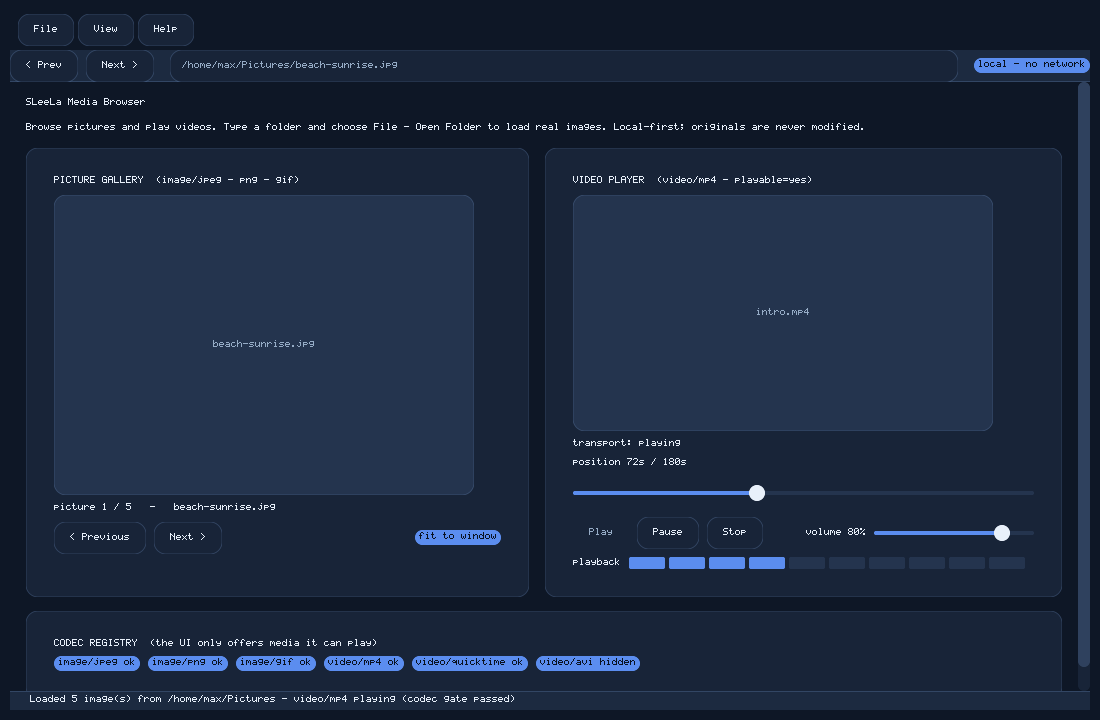
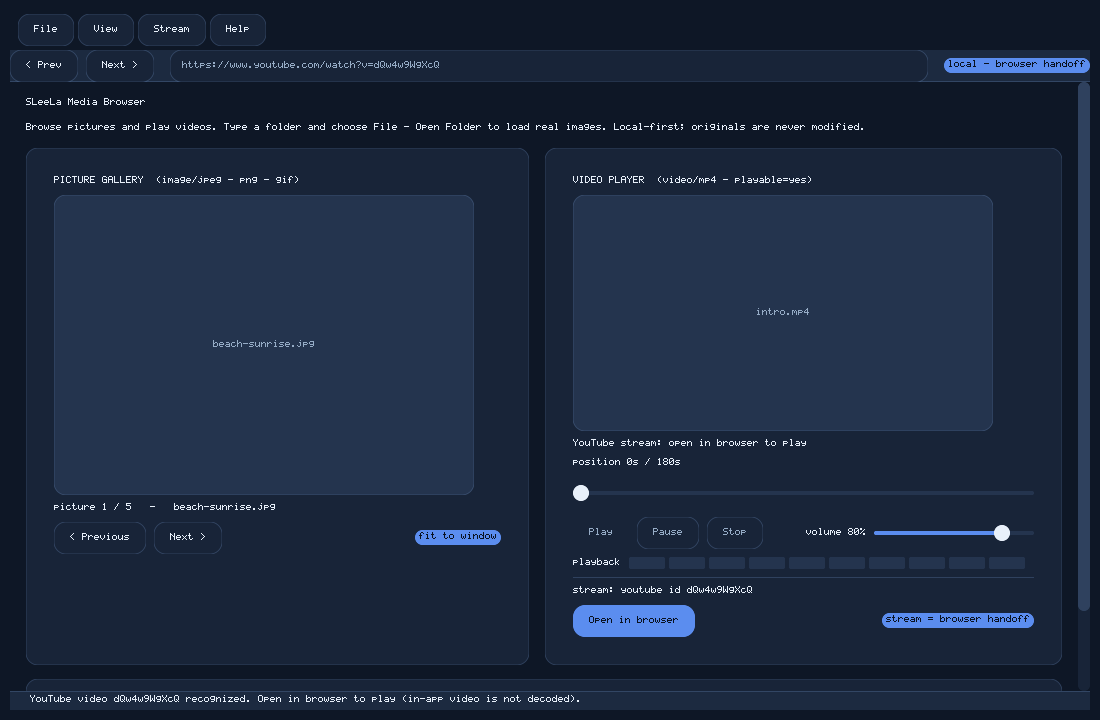
MediaBrowser: add YouTube streaming via browser handoff
The location bar doubles as a stream URL field. Stream - Load URL recognizes a
YouTube link, extracts the 11-char video id (watch?v= / youtu.be/ / /embed/ /
/shorts/ shapes) with a fixed shell command through osRun (scalar-field
technique, no network touched), and switches the player card to stream mode.
Open in browser hands the canonical watch URL to the system browser via a
platform-aware opener (xdg-open / open / cmd start).

Honest by design: SleelaUI has no video surface or network codec, so in-app
transport is gated OFF for a stream (not faked in the canvas) and playback is
delegated to the real browser. The program fetches no media bytes; the one
outbound action is the explicit user-initiated browser handoff.

- New Stream menu (Load URL / Open in browser / Clear) and an in-card stream
  row with an Open-in-browser button and recognized-id caption.
- youtubeId()/looksYouTube()/openExternally()/loadStream()/openStream()/
  clearStream(); syncTransport() now gates local transport off in stream mode.
- URL parsing verified on the VM across all common YouTube URL shapes (and
  correctly rejects non-YouTube input).
- Refresh screenshot to the stream state; honest 'local - browser handoff'
  badge; bump metaVersion to 1.3.0; update README.

Verified: sleela check passes for both runnable files (syntax 2.9).

diff --git a/gui-interface/README.md b/gui-interface/README.md
@@ -34,9 +34,9 @@ not a mockup.*
 - **Menu bar**: File (Open Picture / Open Folder / Media Information / Quit),
   View (Picture Gallery / Video Player), and Help (Media Guide / About),
   implemented as a horizontal button strip with collapsible dropdown panels.
-- **Navigation header**: Prev / Next, a location field that doubles as the
-  folder-path input and tracks the current file, and a `local - no network`
-  badge.
+- **Navigation header**: Prev / Next, a location field that triples as the
+  folder-path input, the current-file display, and the YouTube URL field, plus
+  a `local - browser handoff` badge.
 - **Real on-disk folder browsing**: type a folder path in the location bar and
   choose **File - Open Folder**. The gallery enumerates the real image files in
   that directory (jpg/jpeg/png/gif/bmp/webp/tiff/tif, case-insensitive) and
@@ -50,6 +50,17 @@ not a mockup.*
 - **Video player**: a video canvas with full, **live** transport — Play /
   Pause / Stop, a seek slider that drives the position readout and the playback
   level bar, and a volume slider with a live `volume NN%` readout.
+- **YouTube streaming (browser handoff)**: paste a YouTube link in the location
+  bar and choose **Stream → Load URL**. The browser extracts the 11-character
+  video id (recognizing `watch?v=`, `youtu.be/`, `/embed/`, and `/shorts/`
+  shapes), shows the recognized video in the player card, and offers **Open in
+  browser** — a platform-aware launch (`xdg-open` / `open` / `cmd start`) that
+  plays the video in the user's real browser. It does **not** decode or embed
+  YouTube video in-app: SleelaUI has no video surface or network codec, so the
+  in-app transport is honestly gated off for a stream and playback is delegated
+  to the system browser rather than faked in the canvas. The URL id is parsed by
+  a small fixed shell command via `osRun` (the same scalar-field technique the
+  folder scanner uses); no media bytes are fetched by the program.
 - **State-aware controls**: the transport buttons enable and disable to match
   the player state (Play is off while playing; Pause/Stop are off while
   stopped), so the controls never misrepresent what will happen.
@@ -61,9 +72,13 @@ not a mockup.*
 Transport presentation is centralized in one `syncTransport()` routine so the
 caption, enabled controls, level bar, and status line can never drift apart.
 
-The browser owns no filesystem-mutating capability. Consistent with the
-project's security posture there is no network, telemetry, key upload, database
-logging, or source deletion; originals are never modified.
+The browser owns no filesystem-mutating capability and fetches no media bytes
+itself. Consistent with the project's security posture there is no telemetry,
+key upload, database logging, or source deletion; originals are never modified.
+The one outbound action is the explicit, user-initiated **Open in browser**
+handoff, which launches the system browser on a YouTube URL via the OS opener
+(`xdg-open` / `open` / `cmd start`); the program neither downloads nor embeds
+the video.
 
 ## Run it
 
